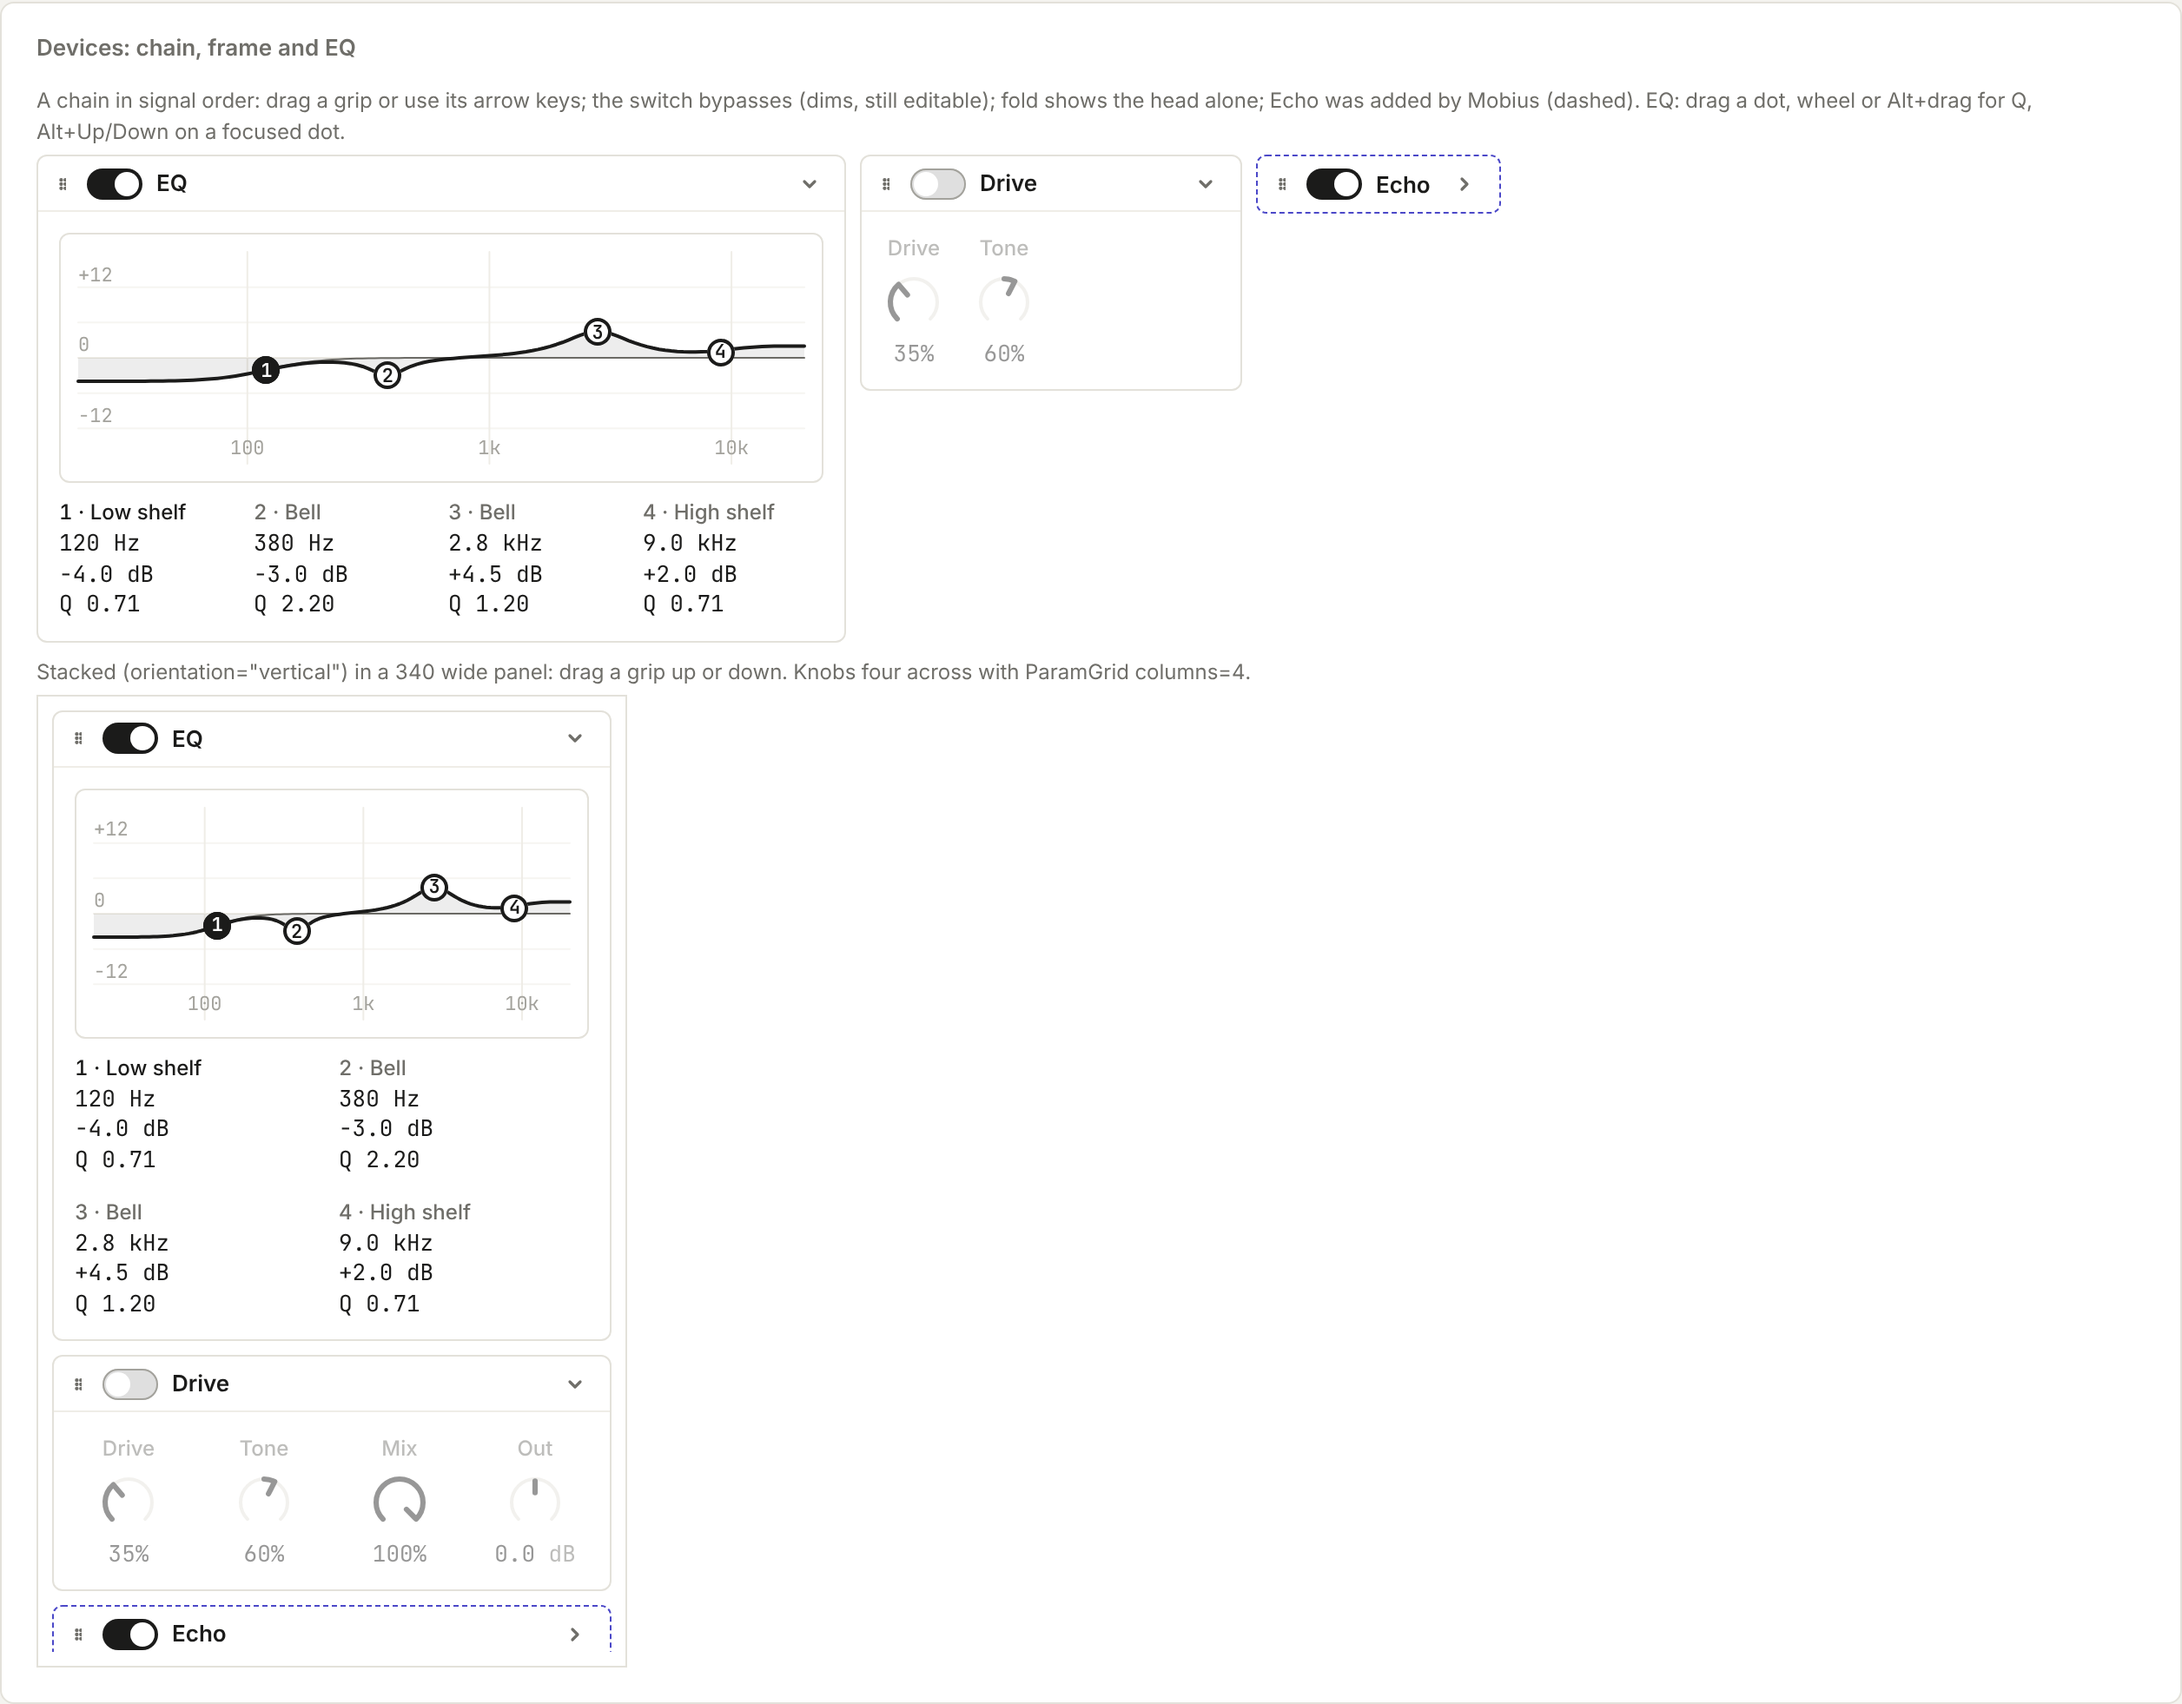
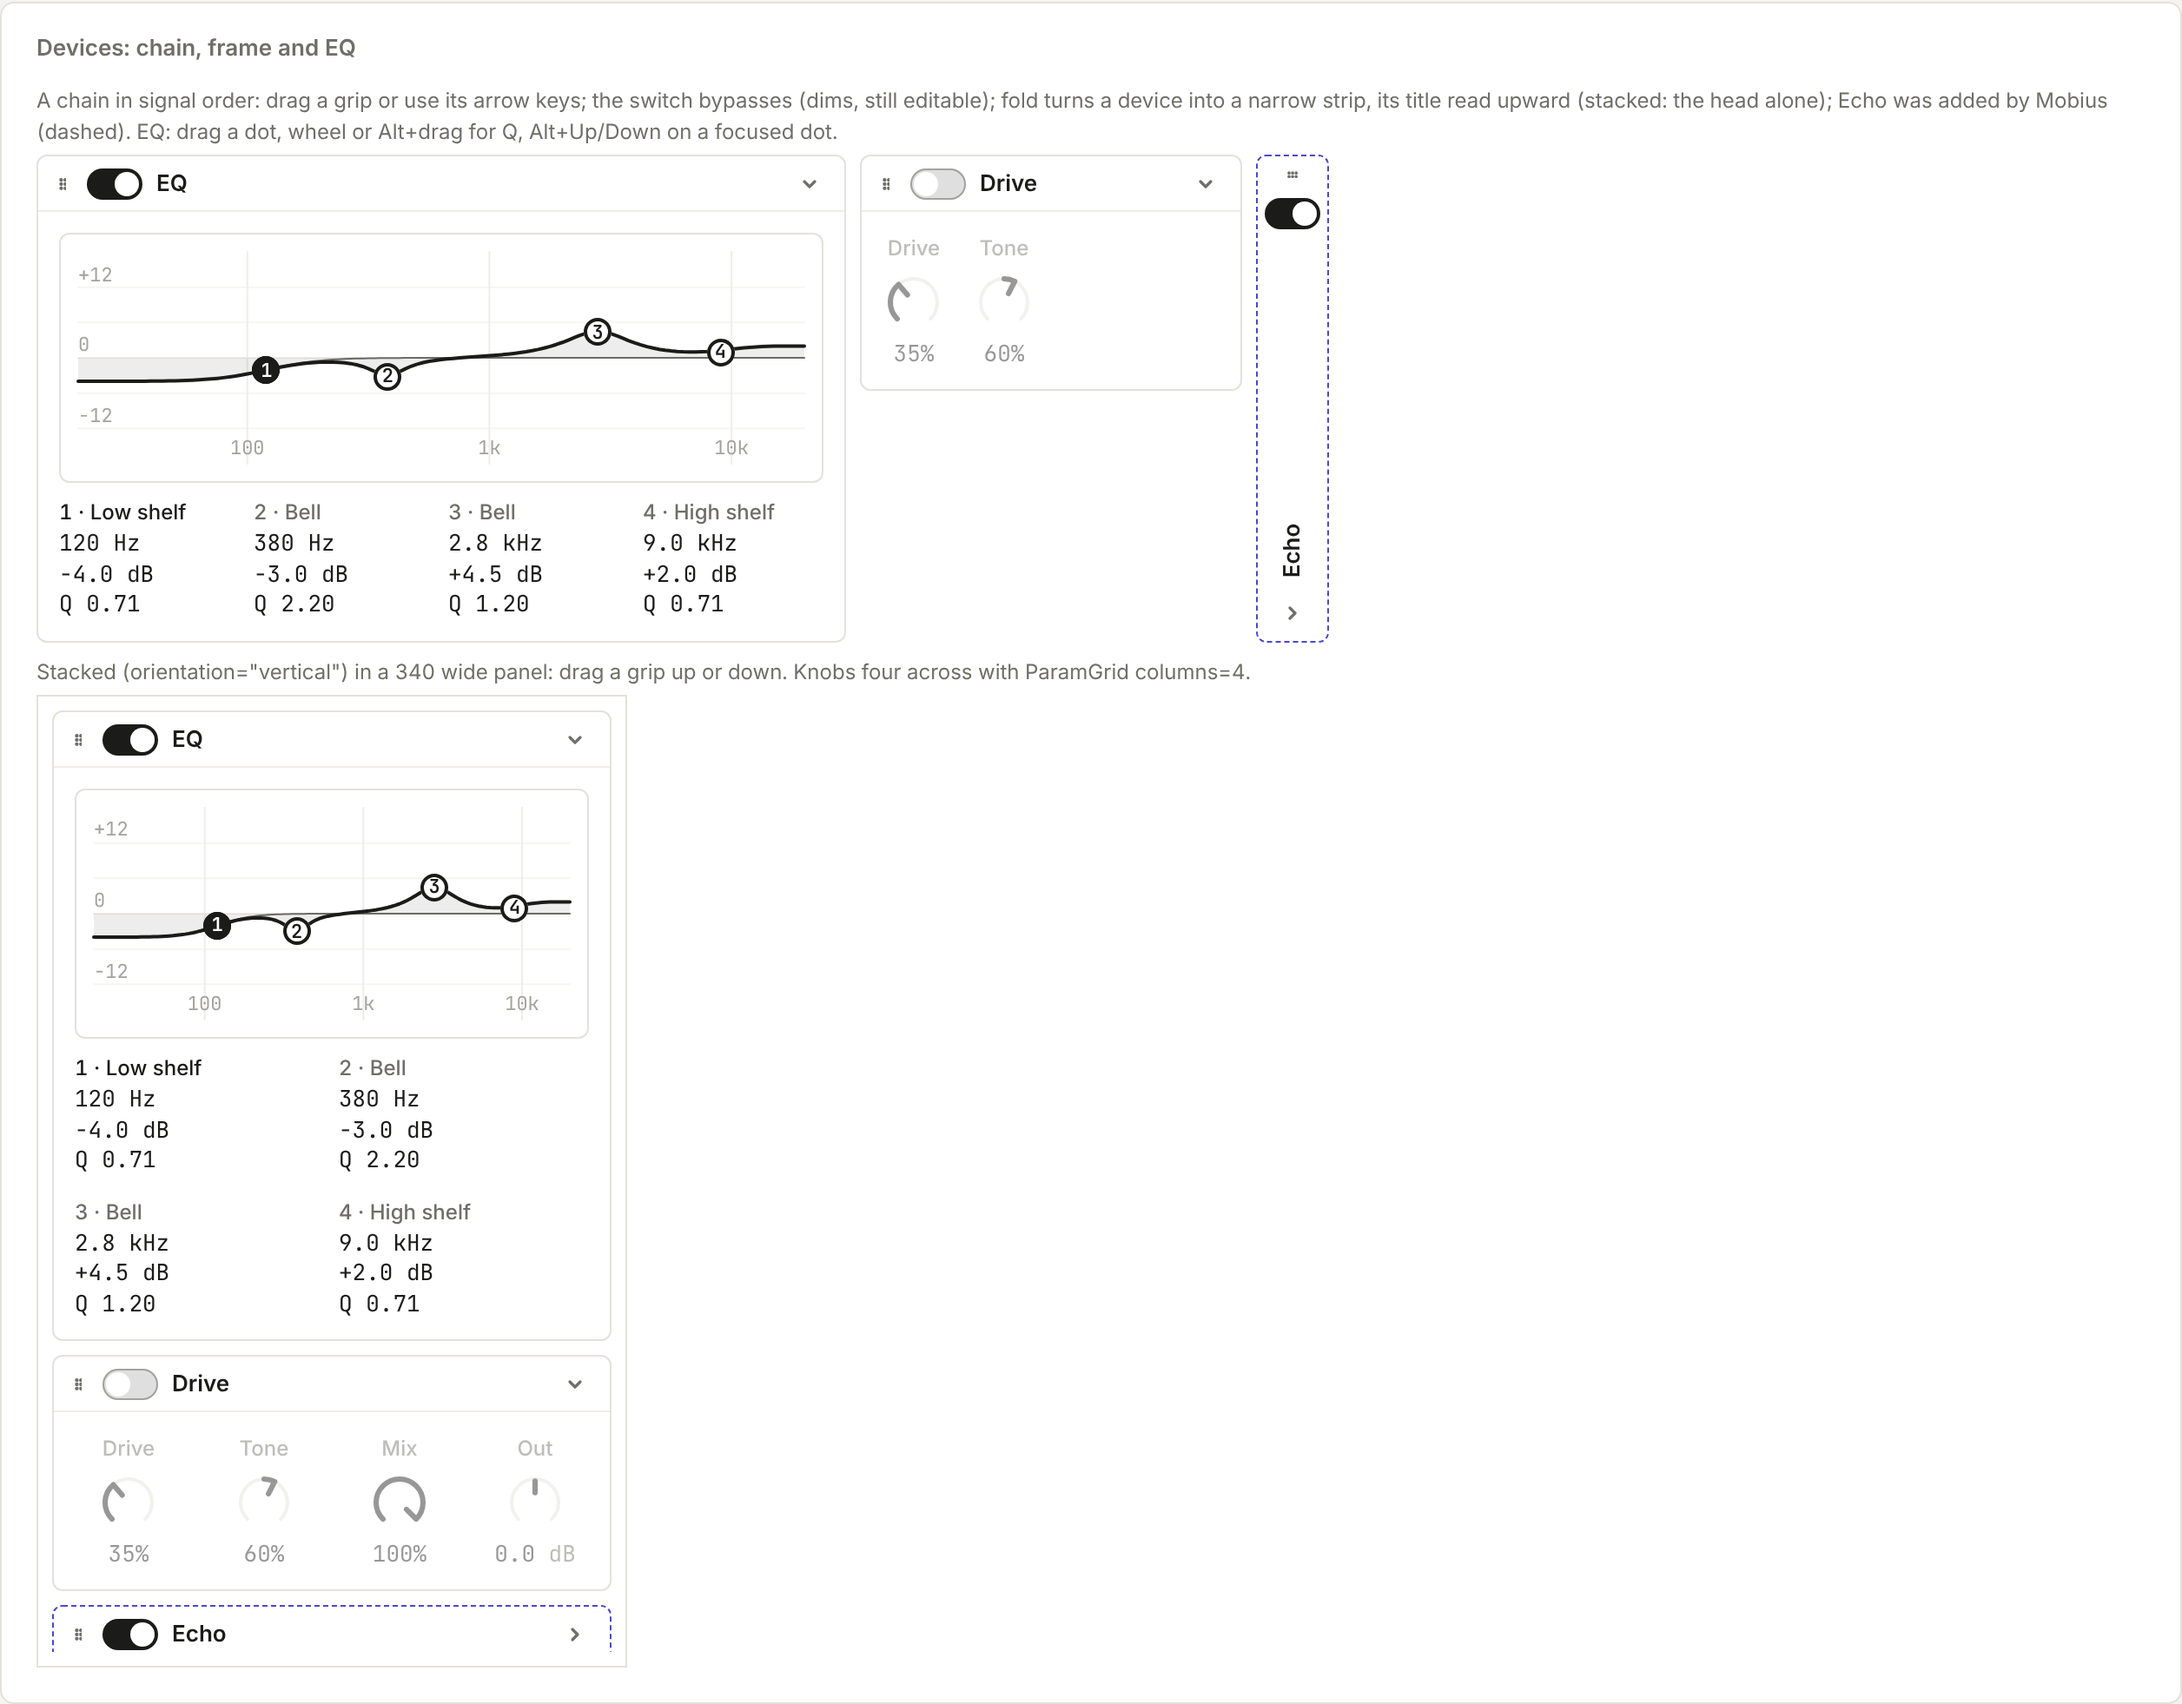
Shell: a folded device in a sideways chain becomes a narrow strip (#408)
Claude-Session: https://claude.ai/code/session_01VRGwo6jTP5FaDQDU1wMNRF

diff --git a/apps/desktop/src/ui/instrument.css b/apps/desktop/src/ui/instrument.css
@@ -222,3 +222,18 @@
 .ui-graph-handle[data-proposed][data-mark] { color: var(--mobius); }
 .ui-graph-handle[data-proposed]:focus-visible { outline: var(--focus-w) solid var(--ink); outline-offset: var(--focus-w); }
 .ui-graph-readout [data-proposed] dd, .ui-graph-readout dd[data-proposed] { color: var(--mobius); }
+
+/* A folded device in a sideways chain becomes a narrow strip the chain's height, as in a DAW: grip, switch, the title
+   read upward, then the fold button to open it again. Its lead and actions wait until it opens. */
+.ui-chain:not([data-orientation='vertical']) { align-items: stretch; }
+.ui-chain:not([data-orientation='vertical']) > .ui-device:not([data-collapsed]) { align-self: flex-start; }
+.ui-chain:not([data-orientation='vertical']) > .ui-device[data-collapsed] { align-self: stretch; }
+.ui-chain:not([data-orientation='vertical']) > .ui-device[data-collapsed] .ui-device-head {
+  flex-direction: column; height: auto; flex: 1; min-width: var(--hit-min); padding: var(--sp-1); gap: var(--sp-2);
+}
+.ui-chain:not([data-orientation='vertical']) > .ui-device[data-collapsed] .ui-device-title {
+  flex: 1; min-height: 0; writing-mode: vertical-rl; rotate: 180deg; text-align: left;
+}
+.ui-chain:not([data-orientation='vertical']) > .ui-device[data-collapsed] :is(.ui-device-lead, .ui-device-actions) { display: none; }
+.ui-chain:not([data-orientation='vertical']) > .ui-device[data-collapsed] .ui-device-grip { height: calc(var(--hit-min) / 2); width: var(--hit-min); }
+.ui-chain:not([data-orientation='vertical']) > .ui-device[data-collapsed] .ui-device-grip svg { width: auto; height: 60%; rotate: 90deg; }

diff --git a/apps/desktop/src/ui-sheet/Sheet.tsx b/apps/desktop/src/ui-sheet/Sheet.tsx
@@ -242,7 +242,7 @@ function Devices() {
   const patch = (id: string, p: Partial<Dev>) => setDevs((d) => d.map((x) => (x.id === id ? { ...x, ...p } : x)));
   const move = (from: number, to: number) => setDevs((d) => { const next = [...d]; const [x] = next.splice(from, 1); next.splice(to, 0, x!); return next; });
   return (
-    <div className="sheet-col"><span className="sheet-note">A chain in signal order: drag a grip or use its arrow keys; the switch bypasses (dims, still editable); fold shows the head alone; Echo was added by Mobius (dashed). EQ: drag a dot, wheel or Alt+drag for Q, Alt+Up/Down on a focused dot.</span>
+    <div className="sheet-col"><span className="sheet-note">A chain in signal order: drag a grip or use its arrow keys; the switch bypasses (dims, still editable); fold turns a device into a narrow strip, its title read upward (stacked: the head alone); Echo was added by Mobius (dashed). EQ: drag a dot, wheel or Alt+drag for Q, Alt+Up/Down on a focused dot.</span>
       <DeviceChain label="Bass effects" count={devs.length} onMove={move}>
         {devs.map((d, i) => (
           <DeviceFrame key={d.id} title={d.title} index={i} on={d.on} onToggle={(on) => patch(d.id, { on })} collapsed={d.folded} onCollapse={(folded) => patch(d.id, { folded })} proposed={d.proposed}>

diff --git a/docs/developers/ui/devices.md b/docs/developers/ui/devices.md
@@ -11,7 +11,7 @@ Instruments and effects sit in devices, and devices sit in a chain in signal ord
 | Control | Use it for |
 | --- | --- |
 | `DeviceChain` | The row of devices: `label`, `count` and `onMove(from, to)`. It scrolls sideways when the devices don't fit. `orientation="vertical"` stacks them top to bottom for a narrow side panel: it fills the panel's width, grips drag up and down, and scrolls down when they don't fit. In a narrow panel the EQ's values go two to a row |
-| `DeviceFrame` | One device. The head has a grip, an on/off `Switch`, the title, an optional `lead` right after it (such as the quiet `Select` that changes an instrument, so it stays in view on a wide device), optional `actions` and a fold. To move a device, drag its grip along the chain, or focus the grip and use the arrow keys (Home and End go to the ends). Off dims the controls but keeps them editable, as a bypass does. `collapsed` shows the head alone. `proposed` gives the dashed indigo edge for a device Mobius added that waits for Keep |
+| `DeviceFrame` | One device. The head has a grip, an on/off `Switch`, the title, an optional `lead` right after it (such as the quiet `Select` that changes an instrument, so it stays in view on a wide device), optional `actions` and a fold. To move a device, drag its grip along the chain, or focus the grip and use the arrow keys (Home and End go to the ends). Off dims the controls but keeps them editable, as a bypass does. `collapsed` folds it: in a sideways chain it becomes a narrow strip the chain's height (grip, switch, the title read upward, and the fold button to open it), as in a DAW; in a stacked chain it shows the head alone. Its `lead` and `actions` wait until it opens. `proposed` gives the dashed indigo edge for a device Mobius added that waits for Keep |
 | `EqGraph` | Three or four bands (`{ type: 'lowshelf' \| 'peak' \| 'highshelf', freq, gain, q, on? }`) over 20 Hz to 20 kHz and ±18 dB. Each band has a numbered dot: across is frequency and up is gain (a shelf's dot sits halfway up its step). The wheel or Alt+drag sets Q, and on a focused dot Alt+Up and Alt+Down do. The chosen band's own shape shows faintly under the whole curve, and every band's values read in a column underneath. `bandLevel` and `eqLevel` give the curve in dB, the same way Web Audio's BiquadFilter computes it |
 
 ```tsx
